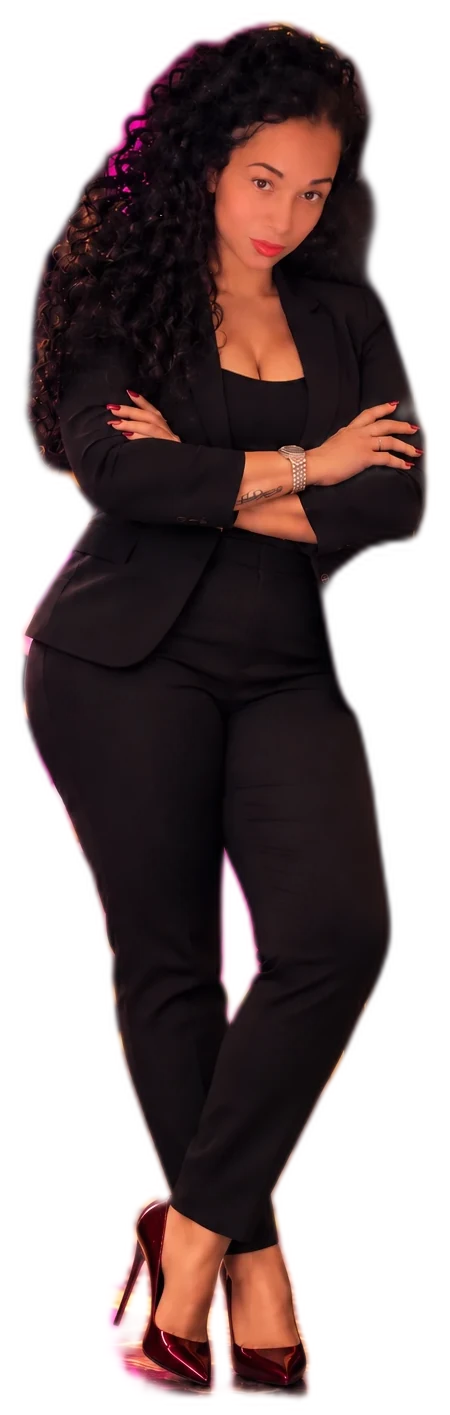
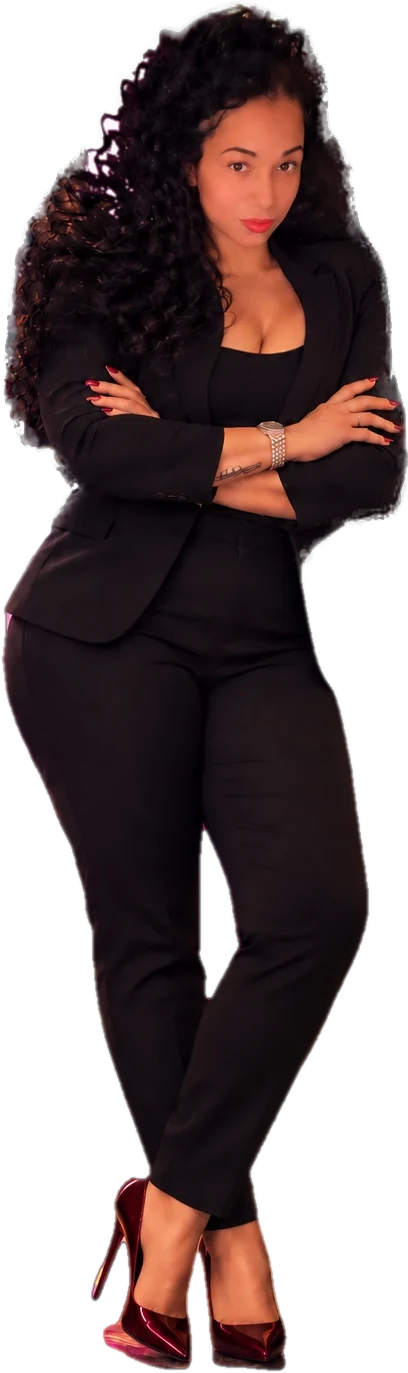
Homepage watermark: upright head, clean transparent figure, full body visible
Re-cut the homepage figure from the approved poster with the head turned
upright and slightly smaller, a true transparent background, and repositioned
it so the full body is never cropped; lowered opacity for readable text.

Claude-Session: https://claude.ai/code/session_015wuyvstmXxBj45ko7vt56y

diff --git a/aa-designs-site/src/styles.css b/aa-designs-site/src/styles.css
@@ -402,22 +402,20 @@ p {
     linear-gradient(0deg, var(--bg) 0%, transparent 28%);
 }
 .hero-figure {
+  /* subtle full-body watermark — never cropped at an edge */
+  --fig-opacity: 0.42;
   position: absolute;
   z-index: -1;
-  right: max(0px, calc((100vw - var(--max)) / 2 - 20px));
-  bottom: 0;
-  height: min(96vh, 1000px);
+  right: max(24px, calc((100vw - var(--max)) / 2));
+  bottom: 28px;
+  height: min(calc(100vh - 120px), 900px);
+  height: min(calc(100svh - 120px), 900px);
   width: auto;
-  opacity: 0.72;
+  max-width: none;
+  opacity: var(--fig-opacity);
   pointer-events: none;
   user-select: none;
-  -webkit-mask-image: linear-gradient(180deg, #000 0%, #000 62%, transparent 98%),
-    linear-gradient(90deg, transparent 0%, #000 22%);
-  -webkit-mask-composite: source-in;
-  mask-image: linear-gradient(180deg, #000 0%, #000 62%, transparent 98%),
-    linear-gradient(90deg, transparent 0%, #000 22%);
-  mask-composite: intersect;
-  filter: drop-shadow(0 0 40px rgba(255, 46, 154, 0.25));
+  filter: drop-shadow(0 0 36px rgba(255, 46, 154, 0.22));
   animation: figureIn 1.6s ease-out both;
 }
 @keyframes figureIn {
@@ -426,7 +424,7 @@ p {
     transform: translateY(18px);
   }
   to {
-    opacity: 0.72;
+    opacity: var(--fig-opacity);
     transform: none;
   }
 }
@@ -543,12 +541,12 @@ p {
       linear-gradient(0deg, rgba(7, 4, 11, 0.97) 0%, rgba(7, 4, 11, 0.86) 48%, rgba(7, 4, 11, 0.25) 78%, rgba(7, 4, 11, 0.5) 100%);
   }
   .hero-figure {
-    right: -14%;
-    left: auto;
-    top: 64px;
+    --fig-opacity: 0.26;
+    right: 12px;
+    top: 88px;
     bottom: auto;
-    height: 82vh;
-    opacity: 0.5;
+    height: calc(100vh - 116px);
+    height: calc(100svh - 116px);
   }
   .hero-content {
     text-align: center;
@@ -1128,6 +1126,6 @@ p {
     transform: none;
   }
   .hero-figure {
-    opacity: 0.72;
+    opacity: var(--fig-opacity);
   }
 }

diff --git a/aa-designs-site/src/pages/Home.tsx b/aa-designs-site/src/pages/Home.tsx
@@ -23,8 +23,8 @@ export default function Home() {
           src="/images/alissa-figure.webp"
           alt=""
           aria-hidden="true"
-          width={450}
-          height={1415}
+          width={408}
+          height={1373}
           fetchPriority="high"
         />
         <Butterflies />
